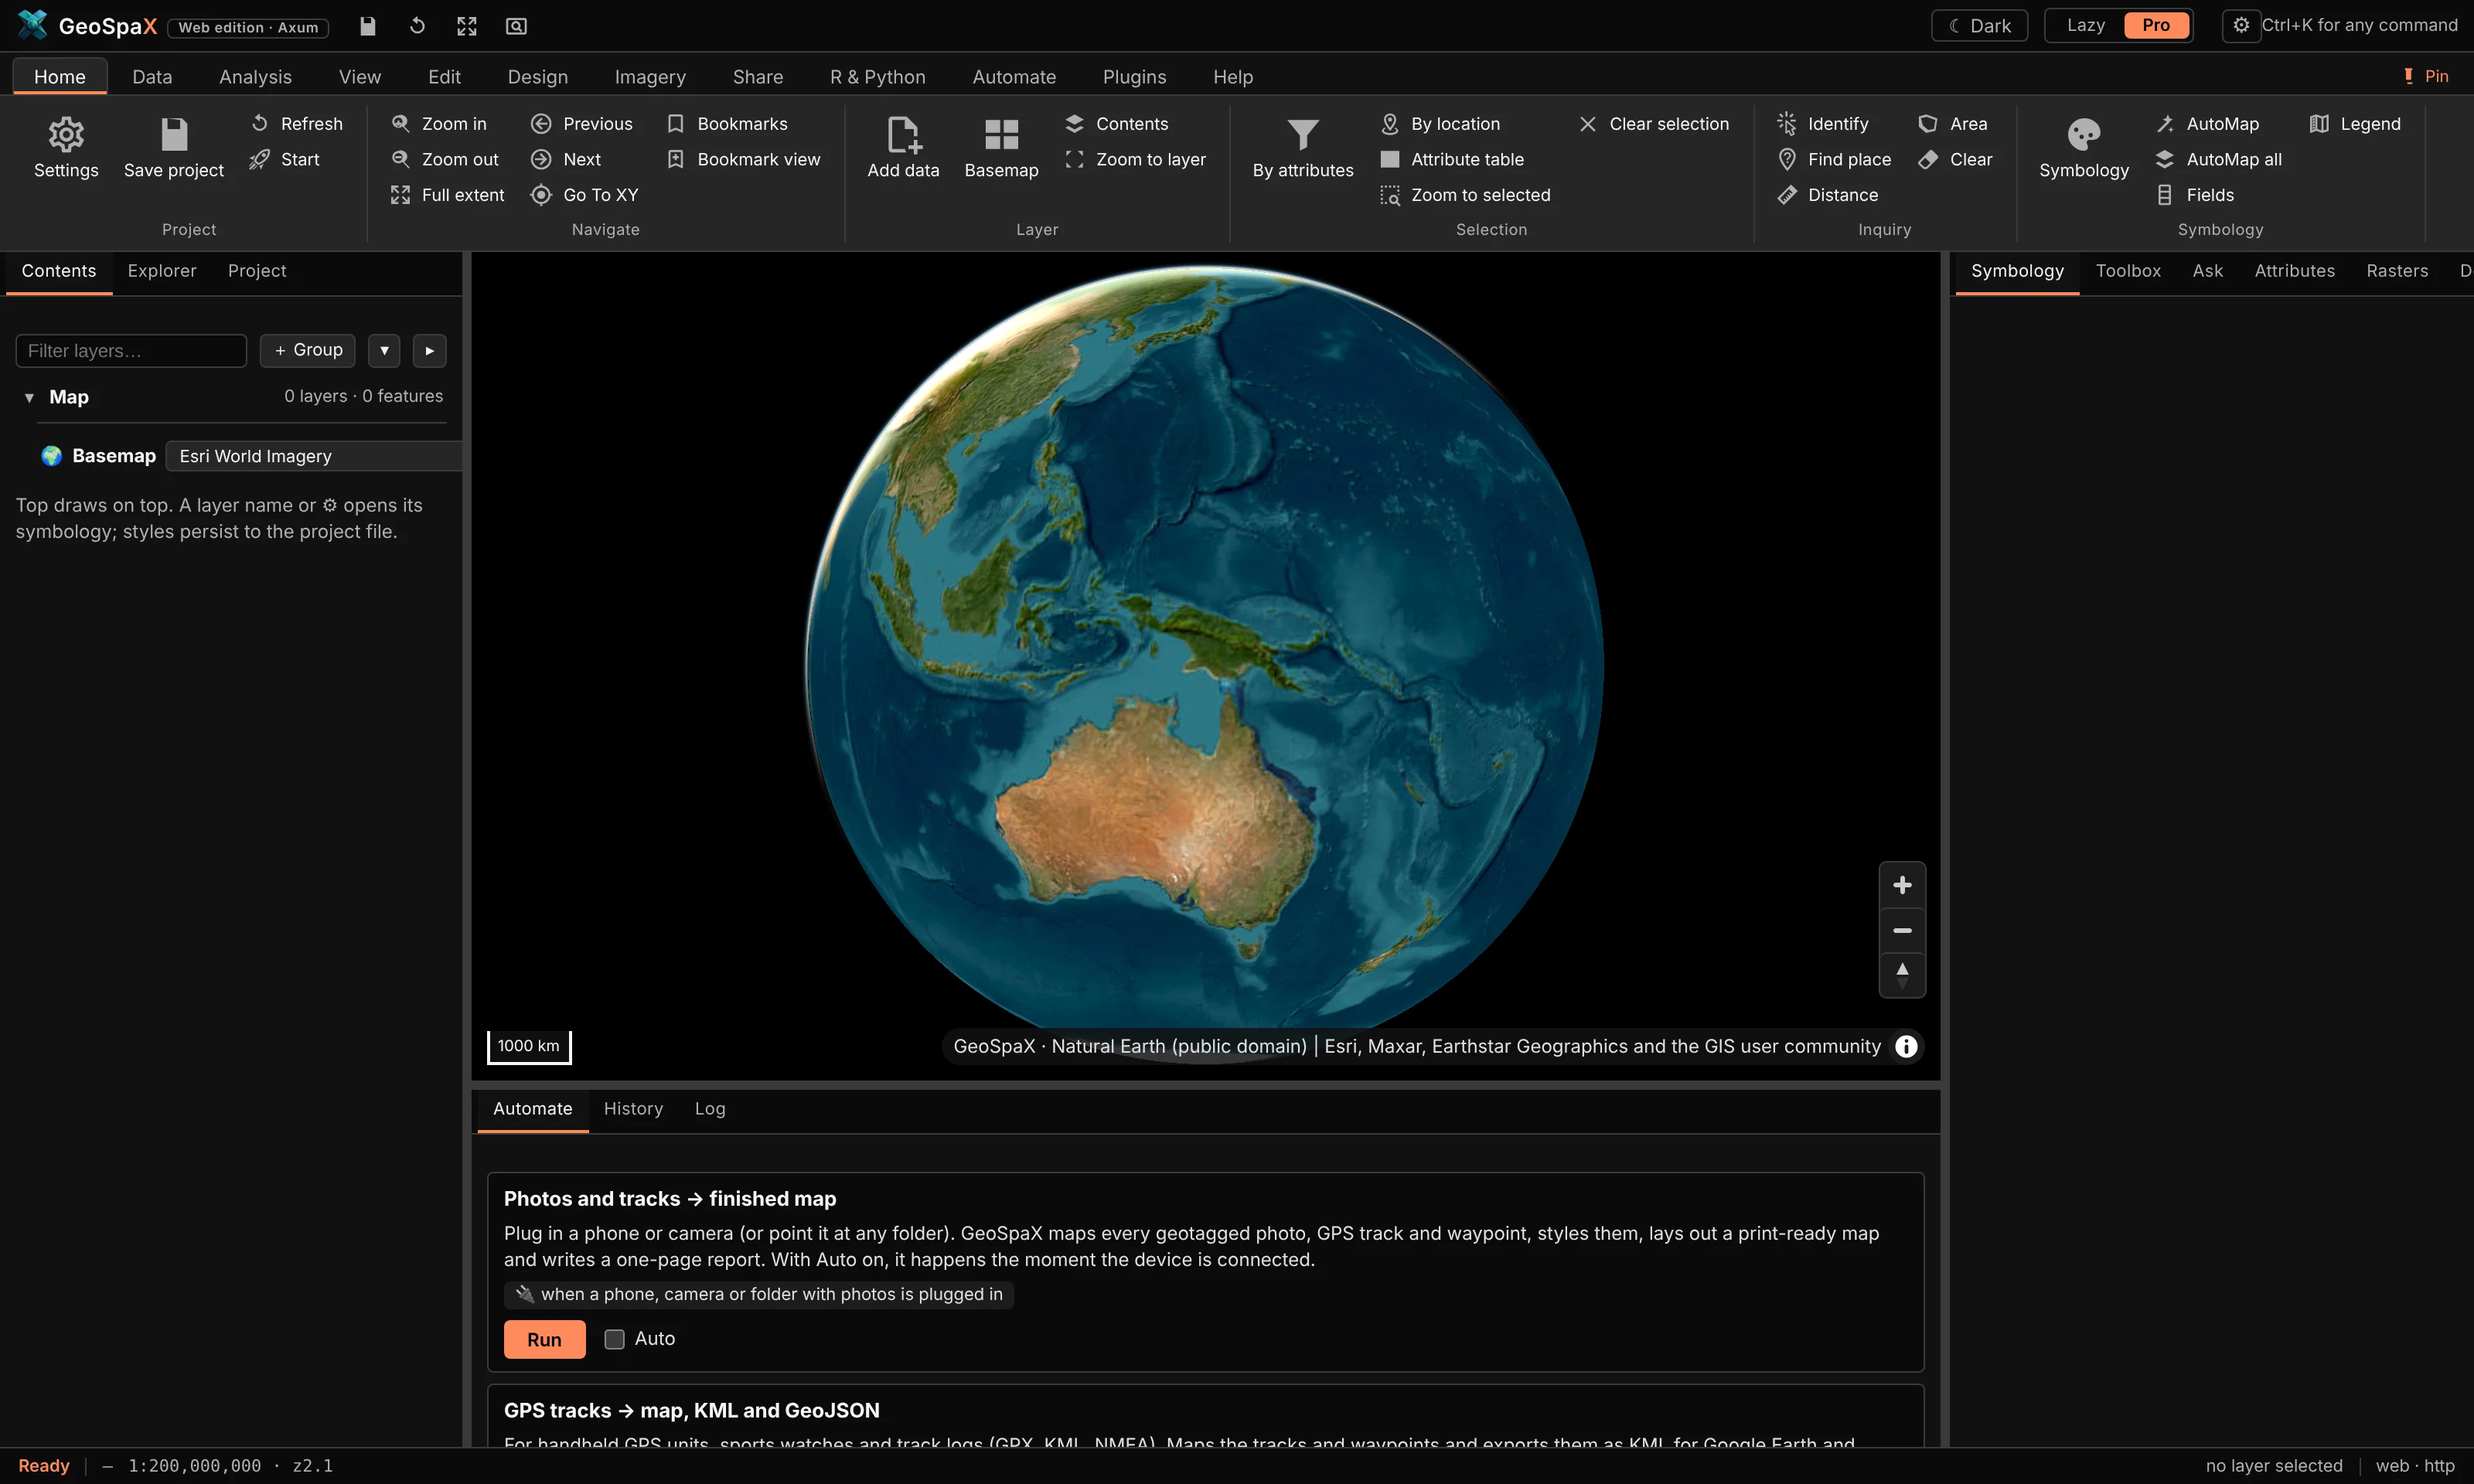
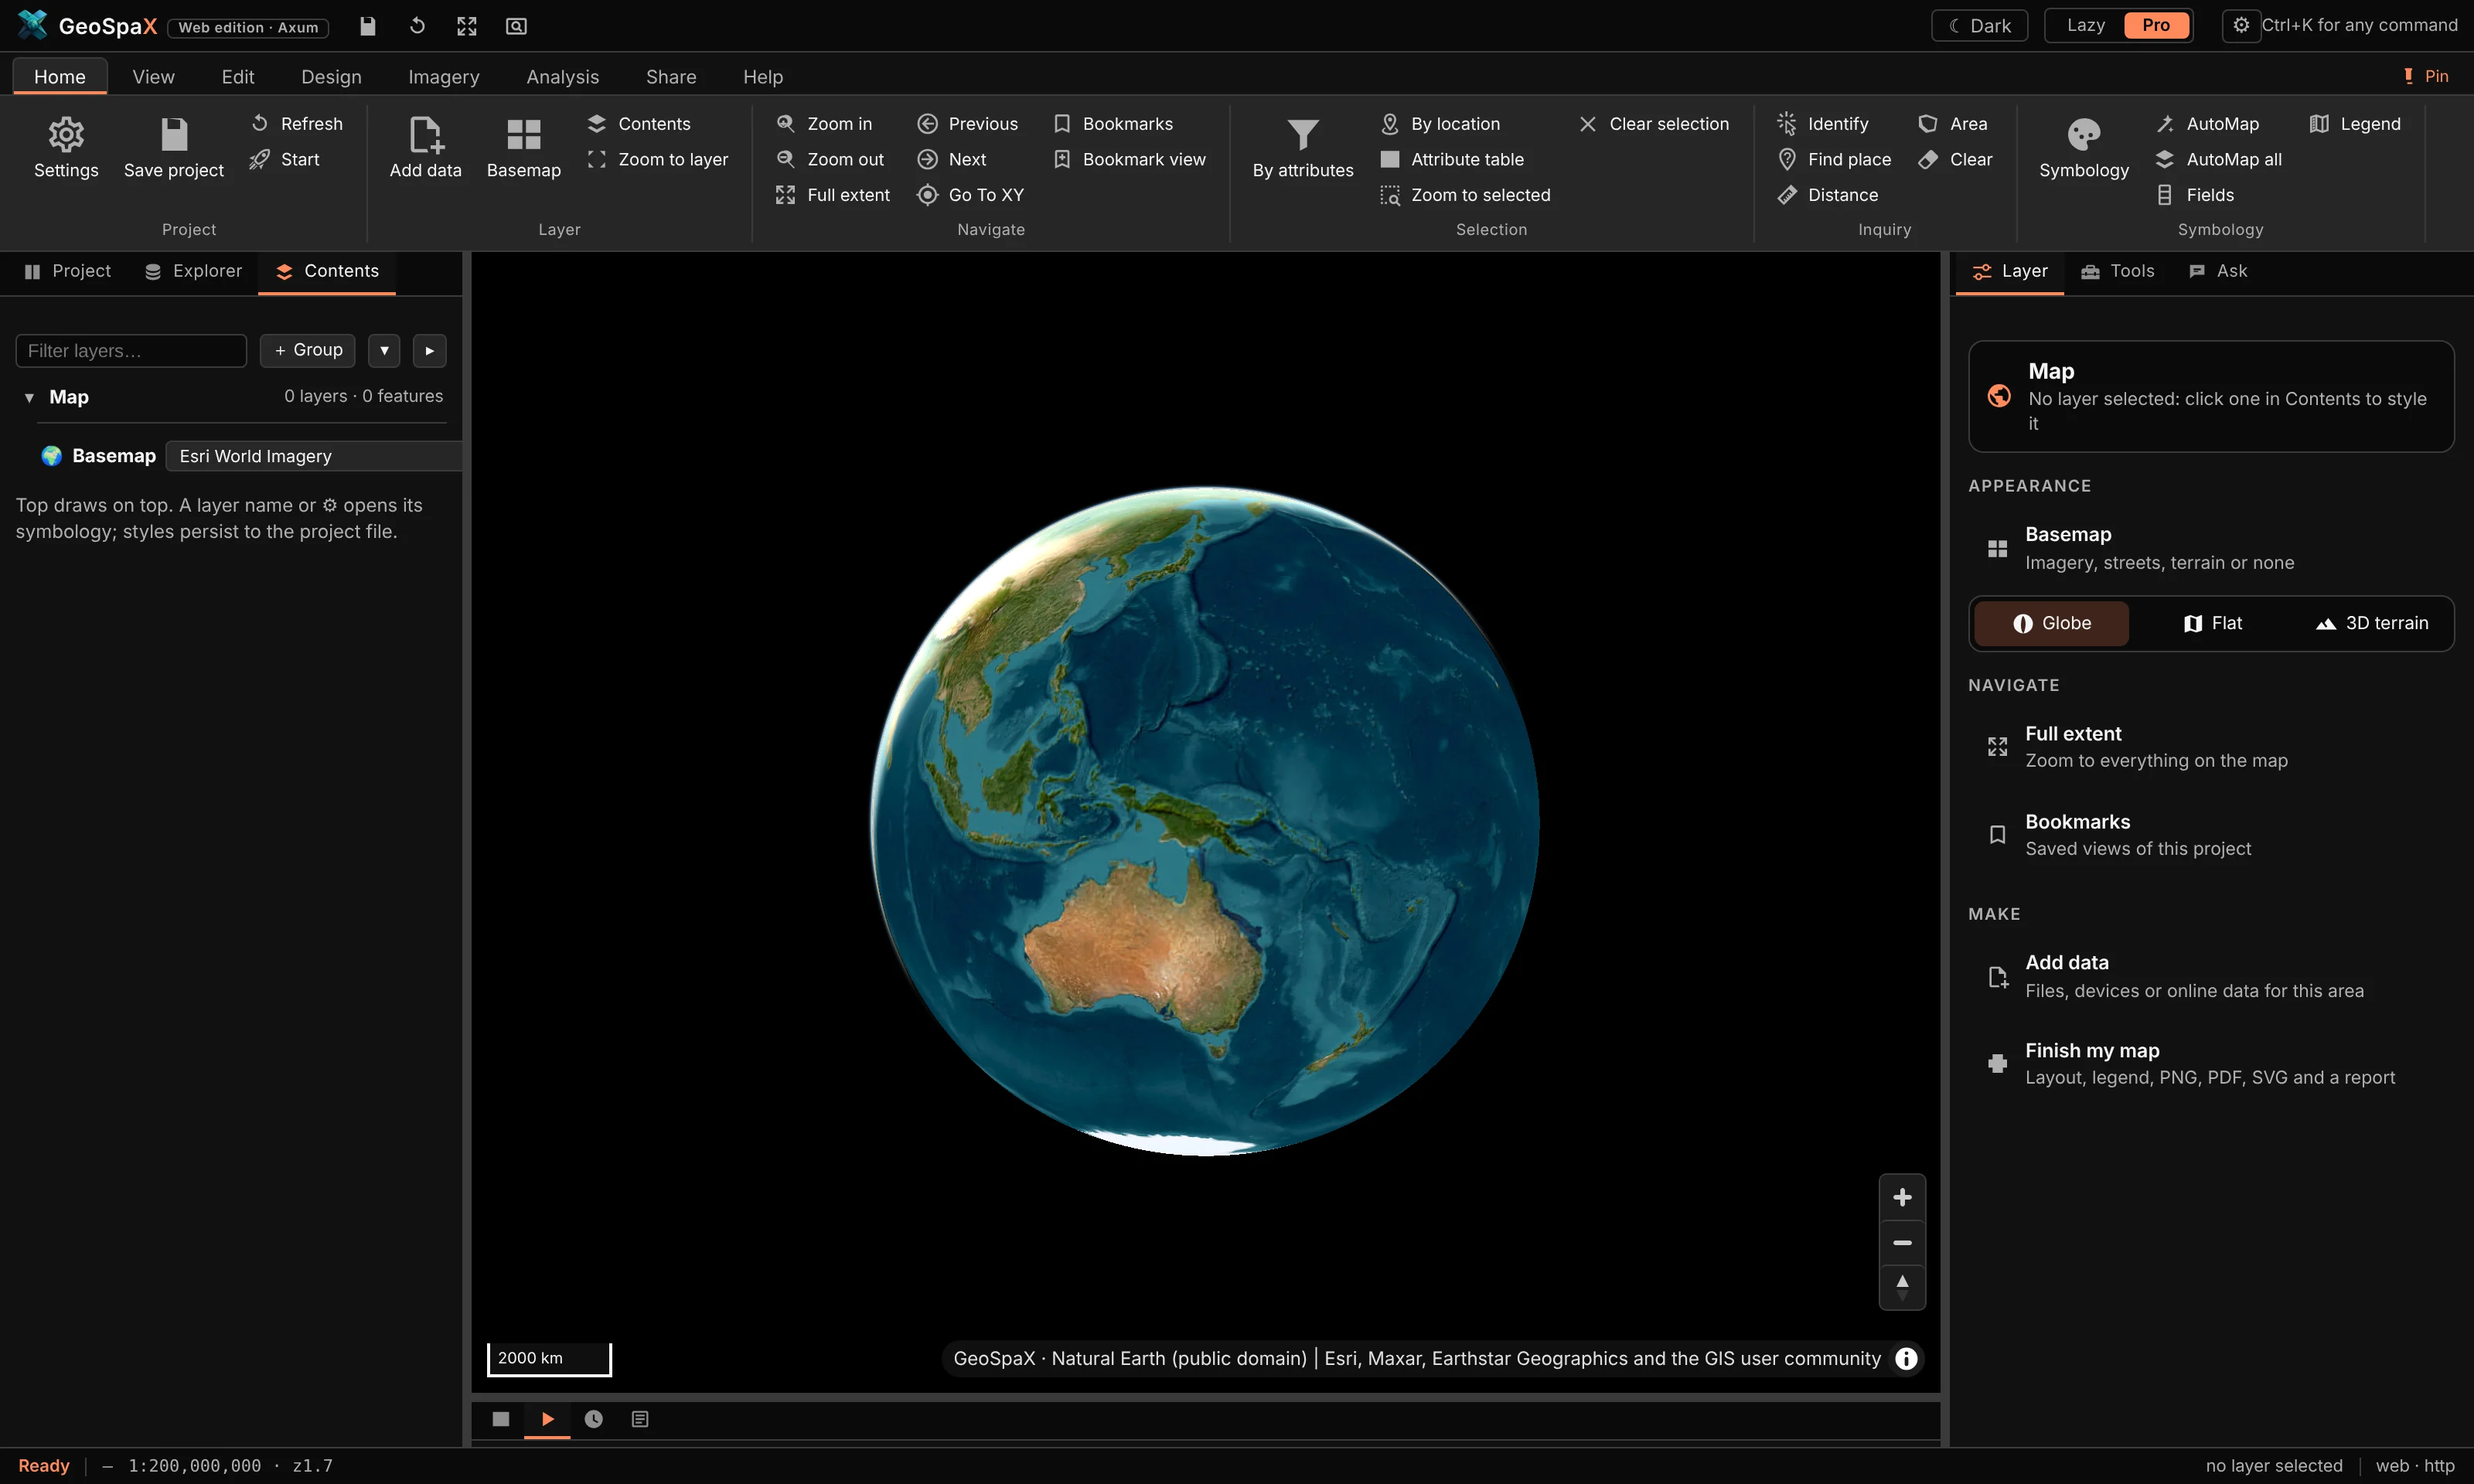
Screenshots of the new layout: Lazy, the start-up globe, Mount Wilhelm in 2D and 3D (3200x1920)
README and site describe the workbench: ribbon in the order of the work, Project · Explorer · Contents,
Layer · Tools · Ask, and the table and runs under the map.

diff --git a/site/index.html b/site/index.html
@@ -110,7 +110,7 @@
         <div class="tab-panels">
           <figure class="window" data-panel="lazy"><img loading="lazy" src="/img/screenshot-lazy.webp" width="1600" height="960" alt="GeoSpaX Lazy mode: layer cards, a task bar and next steps" /><figcaption><b>Lazy.</b> Layer cards that say what each layer shows and why, a task bar, and one-click next steps.</figcaption></figure>
           <figure class="window" data-panel="pro" hidden><img loading="lazy" src="/img/screenshot-pro.webp" width="1600" height="960" alt="GeoSpaX Pro mode: ribbon, layer tree and the Layer tab" /><figcaption><b>Pro.</b> A professional ribbon, the layer tree with legends, and the Layer tab: style, labels, fields and source for every layer.</figcaption></figure>
-          <figure class="window" data-panel="globe" hidden><img loading="lazy" src="/img/screenshot-globe.webp" width="1600" height="960" alt="GeoSpaX starting on the globe with Esri World Imagery" /><figcaption><b>It starts on the globe.</b> A clean slate over world imagery: zoom anywhere, drop in data or fetch it for the area.</figcaption></figure>
+          <figure class="window" data-panel="globe" hidden><img loading="lazy" src="/img/screenshot-globe.webp" width="1600" height="960" alt="GeoSpaX starting on the globe with Esri World Imagery" /><figcaption><b>It starts on the globe.</b> A clean slate over world imagery; with nothing selected, the Layer tab offers the basemap, globe, flat or 3D, and Add data.</figcaption></figure>
         </div>
       </div>
     </section>

diff --git a/README.md b/README.md
@@ -14,8 +14,8 @@ Desktop, web and phone · one Rust engine · MIT licence</p>
 <p align="center"><img src="docs/assets/screenshot-pro.webp" alt="GeoSpaX Pro: every building, road and place of central Lae, Papua New Guinea (Overture Maps), styled by type, with street and place names, over Esri World Imagery" width="900" /></p>
 
 <table><tr>
-<td width="50%"><img src="docs/assets/screenshot-lazy.webp" alt="GeoSpaX Lazy mode: layer cards, task bar and next steps" /><br /><b>Lazy mode</b>: layer cards that explain each layer, a task bar and one-click next steps.</td>
-<td width="50%"><img src="docs/assets/screenshot-globe.webp" alt="GeoSpaX starting on the globe over world imagery" /><br /><b>It starts on the globe</b>: a clean slate over world imagery.</td>
+<td width="50%"><img src="docs/assets/screenshot-lazy.webp" alt="GeoSpaX Lazy mode: layer cards, task bar and the Layer tab" /><br /><b>Lazy mode</b>: layer cards that explain each layer, a task bar, one-click next steps and the layer's story in the Layer tab.</td>
+<td width="50%"><img src="docs/assets/screenshot-globe.webp" alt="GeoSpaX starting on the globe over world imagery" /><br /><b>It starts on the globe</b>: a clean slate over world imagery, with the map's basemap, projection and next steps in the Layer tab.</td>
 </tr></table>
 
 GeoSpaX is for people who want a finished map without spending hours on it. Drop in data, or plug in a
@@ -27,6 +27,10 @@ away.
 
 - **Two modes, one engine.** *Lazy*: layer cards, a task bar and plain-language next steps. *Pro*: an ArcGIS
   Pro-style ribbon, layer tree, attribute table, editing and every pane.
+- **A workbench laid out like the work.** The ribbon runs Home, View, Edit, Design, Imagery, Analysis,
+  Share; on the left **Project · Explorer · Contents** (files, online data, recipes, R & Python, plugins
+  and devices live in the Explorer); on the right **Layer · Tools · Ask** (the selected layer's style,
+  labels, fields and source; the Toolbox; the assistant); under the map the attribute table and the runs.
 - **Maps that style themselves.** AutoMap picks the field, classes and colours and says why; full
   symbology for points, lines, polygons, labels and rasters when you want your own.
 - **Finished maps and reports.** Layout with legend, scale bar, north arrow and inset; Equal Earth for world
